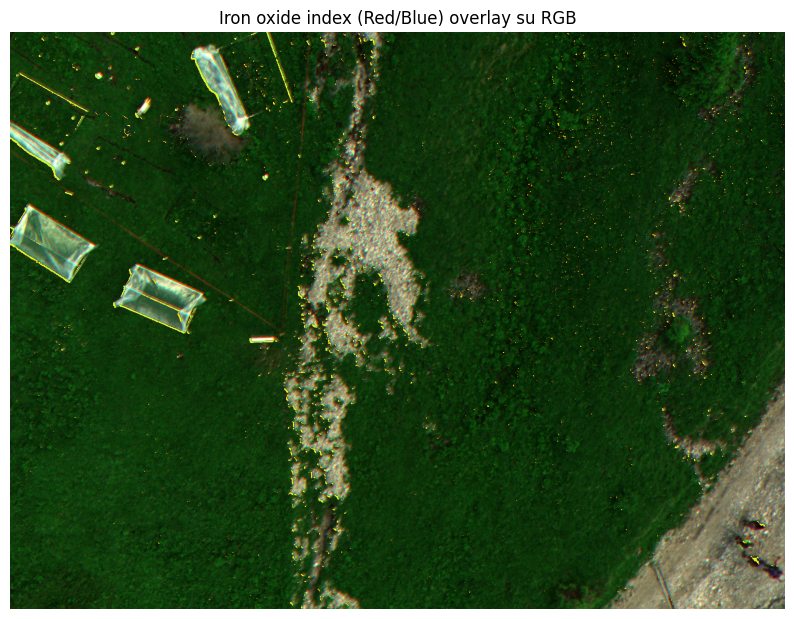
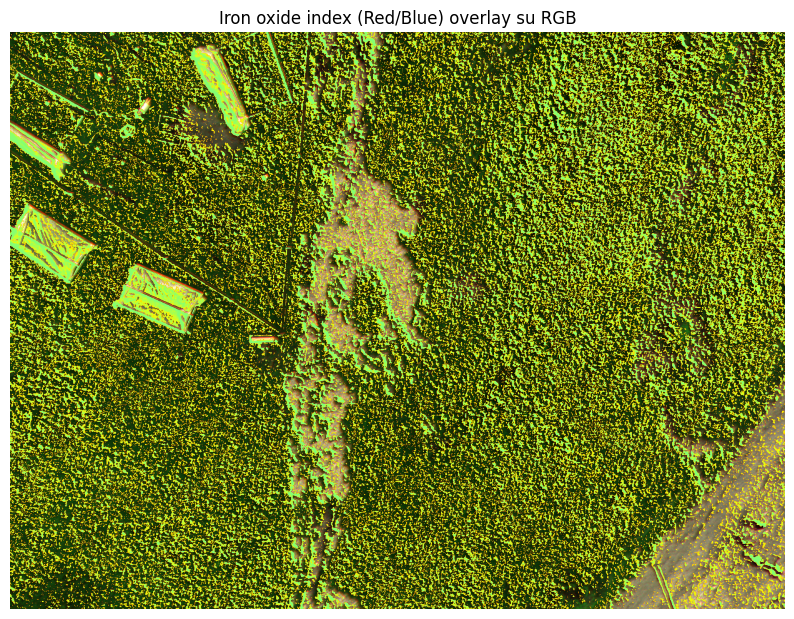
function-calls

diff --git a/prova.py b/prova.py
@@ -12,33 +12,15 @@ def compute_ferric_index():
     # Calcolo dell'indice ferrico come rapporto Red/Green
     ferric_index = red / green
     
-    # Normalization and enhancement operations
-    # 1. Handle infinite and NaN values
-    ferric_index = np.where(np.isfinite(ferric_index), ferric_index, np.nan)
-    
-    # 2. Percentile-based normalization (robust to outliers)
-    p2, p98 = np.nanpercentile(ferric_index, [2, 98])
-    ferric_index_norm = np.clip((ferric_index - p2) / (p98 - p2), 0, 1)
-    
-    # 3. Apply histogram equalization for better contrast
-    ferric_index_enhanced = np.zeros_like(ferric_index_norm)
-    valid_mask = np.isfinite(ferric_index_norm)
-    if np.any(valid_mask):
-        hist, bins = np.histogram(ferric_index_norm[valid_mask], bins=256, range=(0, 1))
-        cdf = hist.cumsum()
-        cdf_normalized = cdf / cdf[-1]
-        ferric_index_enhanced[valid_mask] = np.interp(ferric_index_norm[valid_mask], 
-                                                      bins[:-1], cdf_normalized)
-    
     # Visualizza e salva l'indice ferrico
     try:
         mask_path = "ferric_index.png"
         overlay_path = "overlay_ferric_index.png"
         titolo = "Ferric Index (Red/Green) overlay su RGB"
         
-        # Visualizza e salva overlay using enhanced index
+        # Visualizza e salva overlay
         util.plot_index_overlay(
-            ferric_index_enhanced,
+            ferric_index,
             rgb,
             threshold=0.7,
             cmap="jet",
@@ -51,32 +33,14 @@ def compute_ferric_index():
     except Exception as e:
         print(f"[!] Errore con Ferric Index: {e}")
     
-    return ferric_index_enhanced
-
+    return ferric_index
+	
 def compute_iron_oxide_index():
-    red = bands_da["R"]
+    red = bands_da["Red-650"]
     blue = bands_da["B"]
     
-    # Calcolo dell'indice ferrico come rapporto Red/Blue
+    # Calcolo dell'indice ferrico come rapporto Red/Green
     iron_oxide_ratio = red / blue
-    
-    # Normalization and enhancement operations
-    # 1. Handle infinite and NaN values
-    iron_oxide_ratio = np.where(np.isfinite(iron_oxide_ratio), iron_oxide_ratio, np.nan)
-    
-    # 2. Percentile-based normalization (robust to outliers)
-    p2, p98 = np.nanpercentile(iron_oxide_ratio, [2, 98])
-    iron_oxide_norm = np.clip((iron_oxide_ratio - p2) / (p98 - p2), 0, 1)
-    
-    # 3. Apply histogram equalization for better contrast
-    iron_oxide_enhanced = np.zeros_like(iron_oxide_norm)
-    valid_mask = np.isfinite(iron_oxide_norm)
-    if np.any(valid_mask):
-        hist, bins = np.histogram(iron_oxide_norm[valid_mask], bins=256, range=(0, 1))
-        cdf = hist.cumsum()
-        cdf_normalized = cdf / cdf[-1]
-        iron_oxide_enhanced[valid_mask] = np.interp(iron_oxide_norm[valid_mask], 
-                                                    bins[:-1], cdf_normalized)
     
     # Visualizza e salva l'indice ferrico
     try:
@@ -84,9 +48,9 @@ def compute_iron_oxide_index():
         overlay_path = "overlay_iron_oxide_index.png"
         titolo = "Iron oxide index (Red/Blue) overlay su RGB"
         
-        # Visualizza e salva overlay using enhanced index
+        # Visualizza e salva overlay
         util.plot_index_overlay(
-            iron_oxide_enhanced,
+            iron_oxide_ratio,
             rgb,
             threshold=0.7,
             cmap="jet",
@@ -94,14 +58,15 @@ def compute_iron_oxide_index():
             out_overlay_path=overlay_path,
             title=titolo
         )
-        print(f"[✓] Iron Oxide Index processato correttamente.")
+        print(f"[✓] Ferric Index processato correttamente.")
         
     except Exception as e:
-        print(f"[!] Errore con Iron Oxide Index: {e}")
+        print(f"[!] Errore con Ferric Index: {e}")
     
-    return iron_oxide_enhanced
-
+    return iron_oxide_ratio	
+    
 compute_ferric_index()  # Calcola e visualizza l'indice ferrico
+
 compute_iron_oxide_index()  # Calcola e visualizza l'indice ferrico
 
 
